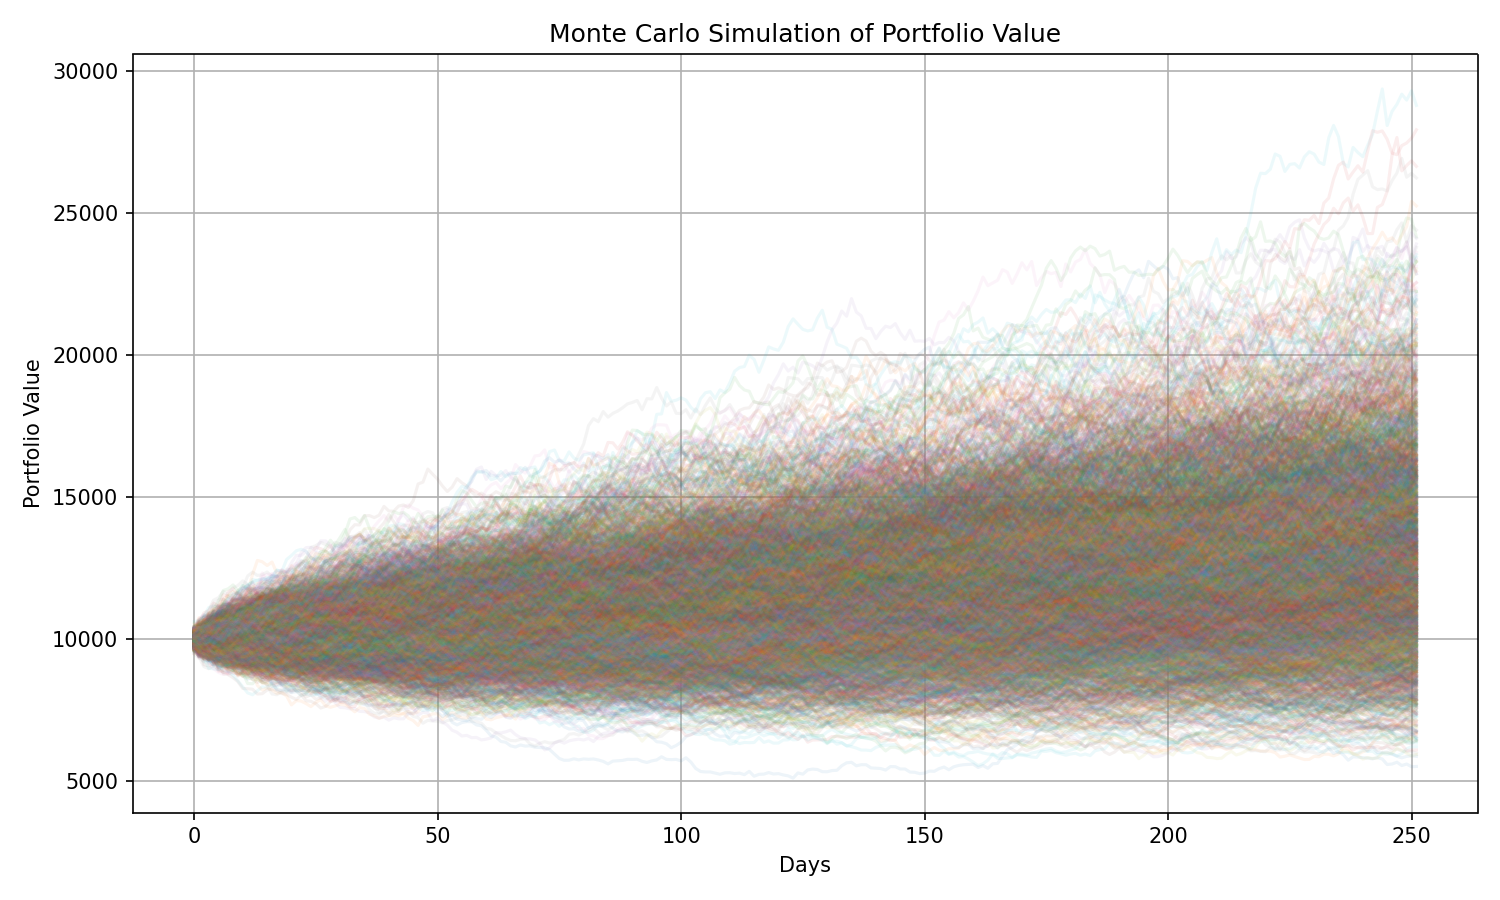
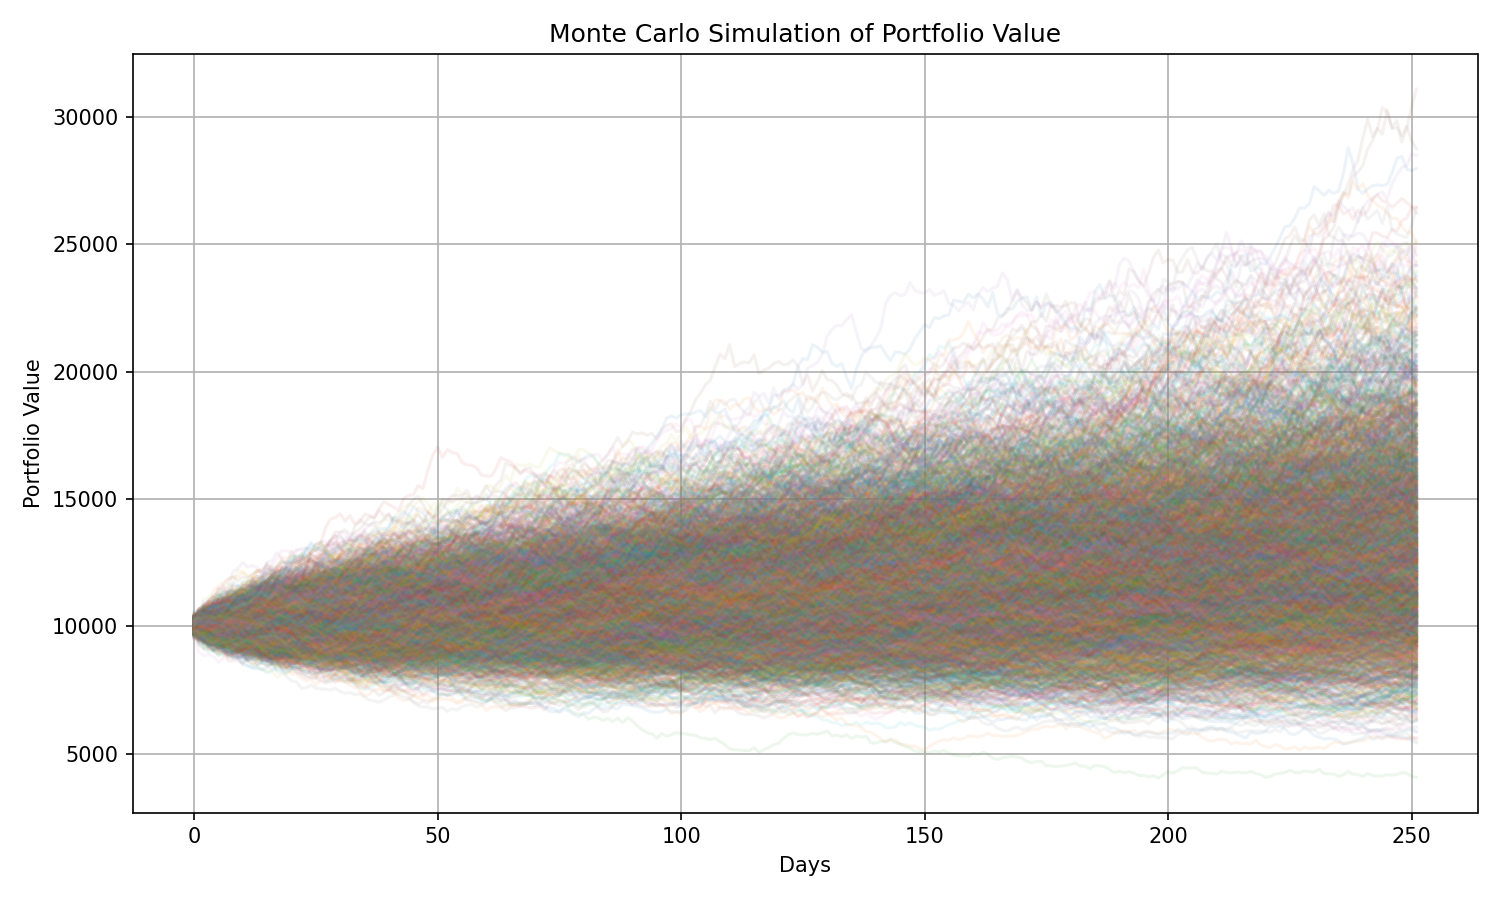
Resolved merge conflicts

diff --git a/README.md b/README.md
@@ -1,65 +1,100 @@
-## Project Overview
+import yfinance as yf
+import pandas as pd
+import numpy as np
+import matplotlib.pyplot as plt
+from scipy.optimize import minimize
 
-This project builds a complete portfolio analytics pipeline using Python, combining financial theory (modern portfolio theory, risk modeling) with practical implementation.
+def download_data(tickers, start_date, end_date):
+    data = yf.download(tickers, start=start_date, end=end_date)['Adj Close']
+    if isinstance(data.columns, pd.MultiIndex):
+        data.columns = data.columns.get_level_values(1)
+    return data
 
-It includes:
-- Portfolio return and risk calculation
-- Efficient frontier optimization
-- Monte Carlo simulation of portfolio value
-- Value-at-Risk (VaR) and Expected Shortfall (CVaR)
+def calculate_returns(prices):
+    returns = prices.pct_change().dropna()
+    return returns
 
-# BlackScholes-Finance-Project
+def portfolio_performance(weights, mean_returns, cov_matrix):
+    returns = np.dot(weights, mean_returns)
+    std = np.sqrt(np.dot(weights.T, np.dot(cov_matrix, weights)))
+    return returns, std
 
-A Python portfolio analytics project that combines market data ingestion, portfolio risk/return analysis, efficient frontier optimization, Monte Carlo simulation, and Value-at-Risk (VaR) estimation.
+def negative_sharpe_ratio(weights, mean_returns, cov_matrix, risk_free_rate=0):
+    p_returns, p_std = portfolio_performance(weights, mean_returns, cov_matrix)
+    return -(p_returns - risk_free_rate) / p_std
 
-## What it does
+def check_sum(weights):
+    return np.sum(weights) - 1
 
-- Downloads historical price data from Yahoo Finance
-- Cleans MultiIndex / flat DataFrame outputs robustly
-- Calculates daily returns, annualized return, volatility, and Sharpe ratio
-- Builds an efficient frontier using constrained optimization
-- Runs Monte Carlo portfolio simulations
-- Estimates VaR and CVaR from simulated terminal portfolio values
-- Saves visual outputs as PNG files for portfolio presentation
+def efficient_frontier(mean_returns, cov_matrix, returns_range):
+    efficient_portfolios = []
+    num_assets = len(mean_returns)
+    bounds = tuple((0, 1) for asset in range(num_assets))
+    initial_guess = num_assets * [1. / num_assets,]
+    for ret in returns_range:
+        constraints = ({'type': 'eq', 'fun': check_sum},
+                       {'type': 'eq', 'fun': lambda w: portfolio_performance(w, mean_returns, cov_matrix)[0] - ret})
+        result = minimize(lambda w: portfolio_performance(w, mean_returns, cov_matrix)[1], initial_guess,
+                          method='SLSQP', bounds=bounds, constraints=constraints)
+        efficient_portfolios.append(result)
+    return efficient_portfolios
 
-## Main outputs
+def monte_carlo_simulation(prices, weights, num_simulations=3000, num_days=252):
+    mean_returns = prices.pct_change().mean()
+    cov_matrix = prices.pct_change().cov()
+    portfolio_mean = np.dot(weights, mean_returns) * num_days
+    portfolio_std = np.sqrt(np.dot(weights.T, np.dot(cov_matrix * num_days, weights)))
+    results = np.zeros(num_simulations)
+    for i in range(num_simulations):
+        daily_returns = np.random.normal(portfolio_mean / num_days, portfolio_std / np.sqrt(num_days), num_days)
+        results[i] = np.prod(1 + daily_returns)
+    return results
 
-- `efficient_frontier.png`
-- `monte_carlo.png`
-- `terminal_dist.png`
-- `var_summary.json`
+def plot_efficient_frontier(efficient_portfolios, mean_returns, cov_matrix):
+    returns = [p['fun'] for p in efficient_portfolios]
+    risks = []
+    for p in efficient_portfolios:
+        risks.append(p['fun'])
+    plt.plot(risks, returns, 'b-o')
+    plt.xlabel('Risk (Std. Deviation)')
+    plt.ylabel('Return')
+    plt.title('Efficient Frontier')
+    plt.savefig('efficient_frontier.png')
+    plt.close()
 
-## Files
+def plot_monte_carlo(sim_results, savepath="monte_carlo.png"):
+    plt.hist(sim_results, bins=50, alpha=0.7)
+    plt.title('Monte Carlo Simulation Results')
+    plt.xlabel('Portfolio Value')
+    plt.ylabel('Frequency')
+    plt.savefig(savepath)
+    plt.close()
 
-- `stock_analysis.py` — main analysis script
-- `requirements.txt` — Python dependencies
-- `efficient_frontier.png` — efficient frontier chart
-- `terminal_dist.png` — terminal value distribution with VaR lines
-- `var_summary.json` — VaR / CVaR summary
+def compute_var_from_simulation(sim_results, initial_value=10000, confidence_levels=(0.05, 0.01)):
+    var_results = {}
+    sorted_results = np.sort(sim_results)
+    for cl in confidence_levels:
+        index = int(cl * len(sorted_results))
+        var = initial_value - initial_value * sorted_results[index]
+        var_results[f'VaR_{int(cl*100)}%'] = var
+        cvar = initial_value - initial_value * np.mean(sorted_results[:index])
+        var_results[f'CVaR_{int(cl*100)}%'] = cvar
+    return var_results
 
-## Technologies used
+if __name__ == "__main__":
+    tickers = ['AAPL', 'MSFT', 'GOOGL', 'AMZN']
+    prices = download_data(tickers, '2020-01-01', '2023-01-01')
+    returns = calculate_returns(prices)
+    mean_returns = returns.mean() * 252
+    cov_matrix = returns.cov() * 252
+    num_assets = len(tickers)
+    weights = np.array(num_assets * [1. / num_assets,])
 
-- Python
-- pandas
-- numpy
-- yfinance
-- scipy
-- matplotlib
+    returns_range = np.linspace(mean_returns.min(), mean_returns.max(), 50)
+    efficient_portfolios = efficient_frontier(mean_returns, cov_matrix, returns_range)
+    plot_efficient_frontier(efficient_portfolios, mean_returns, cov_matrix)
 
-## How to run
+    sim_results = monte_carlo_simulation(prices, weights, num_simulations=3000, num_days=252)
+    plot_monte_carlo(sim_results, savepath="monte_carlo.png")
 
-```bash
-pip install -r requirements.txt
-python stock_analysis.py
-```
-
-## Visual Results
-
-### Efficient Frontier
-![Efficient Frontier](efficient_frontier.png)
-
-### Monte Carlo Simulation
-![Monte Carlo](monte_carlo.png)
-
-### Terminal Distribution with VaR
-![Terminal Distribution](terminal_dist.png)
+    var_res = compute_var_from_simulation(sim_results, initial_value=10000, confidence_levels=(0.05, 0.01))
